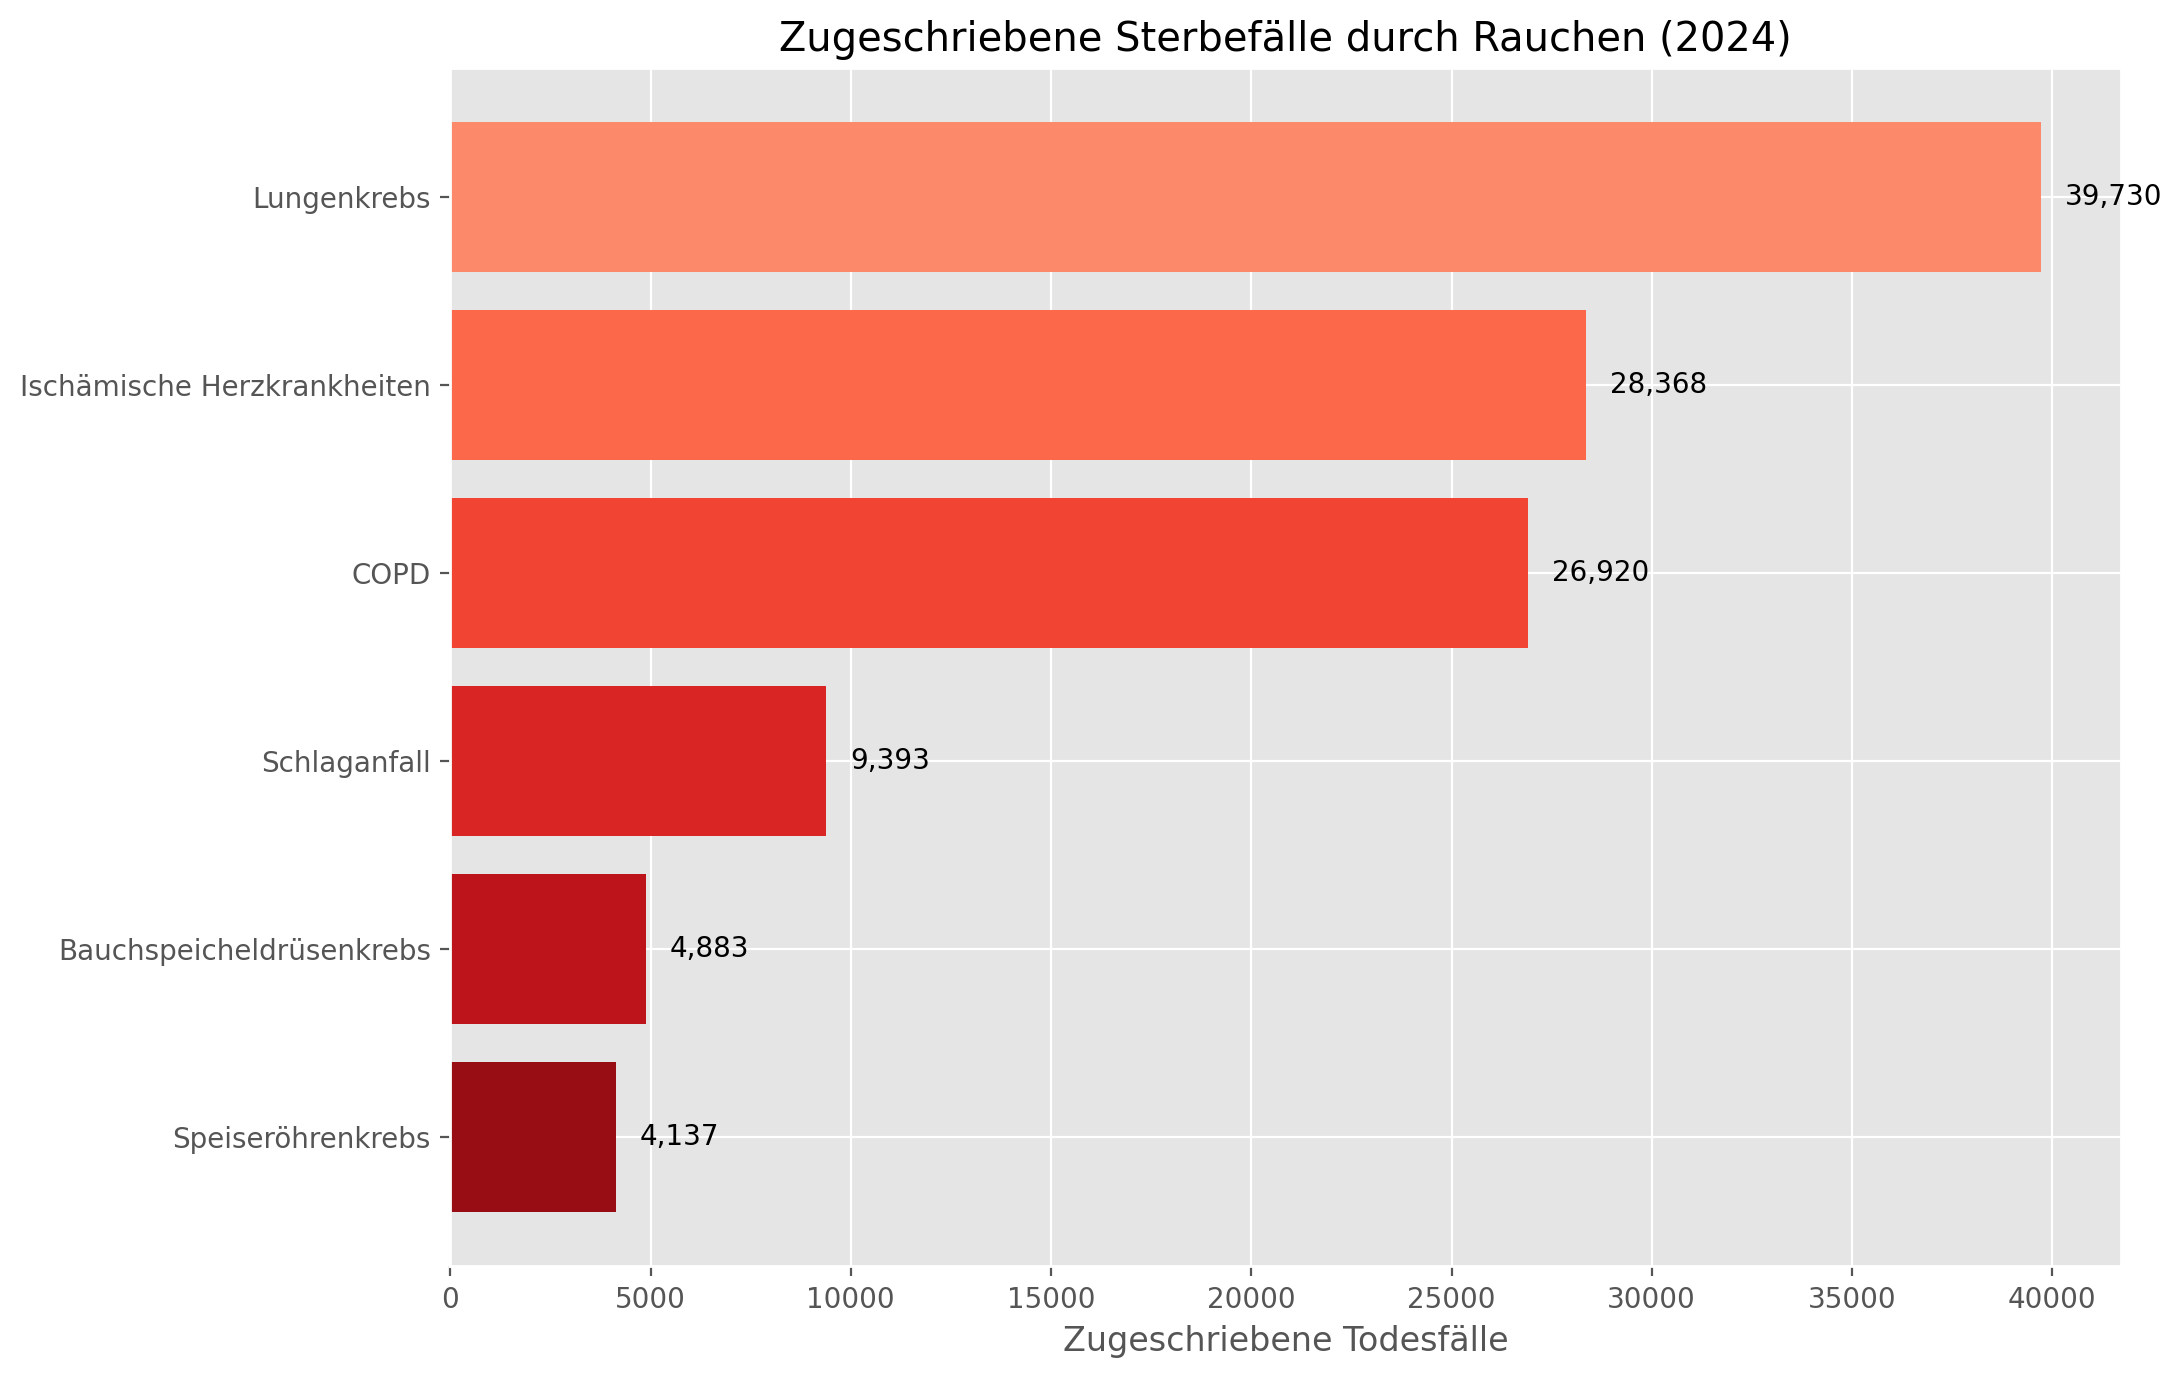
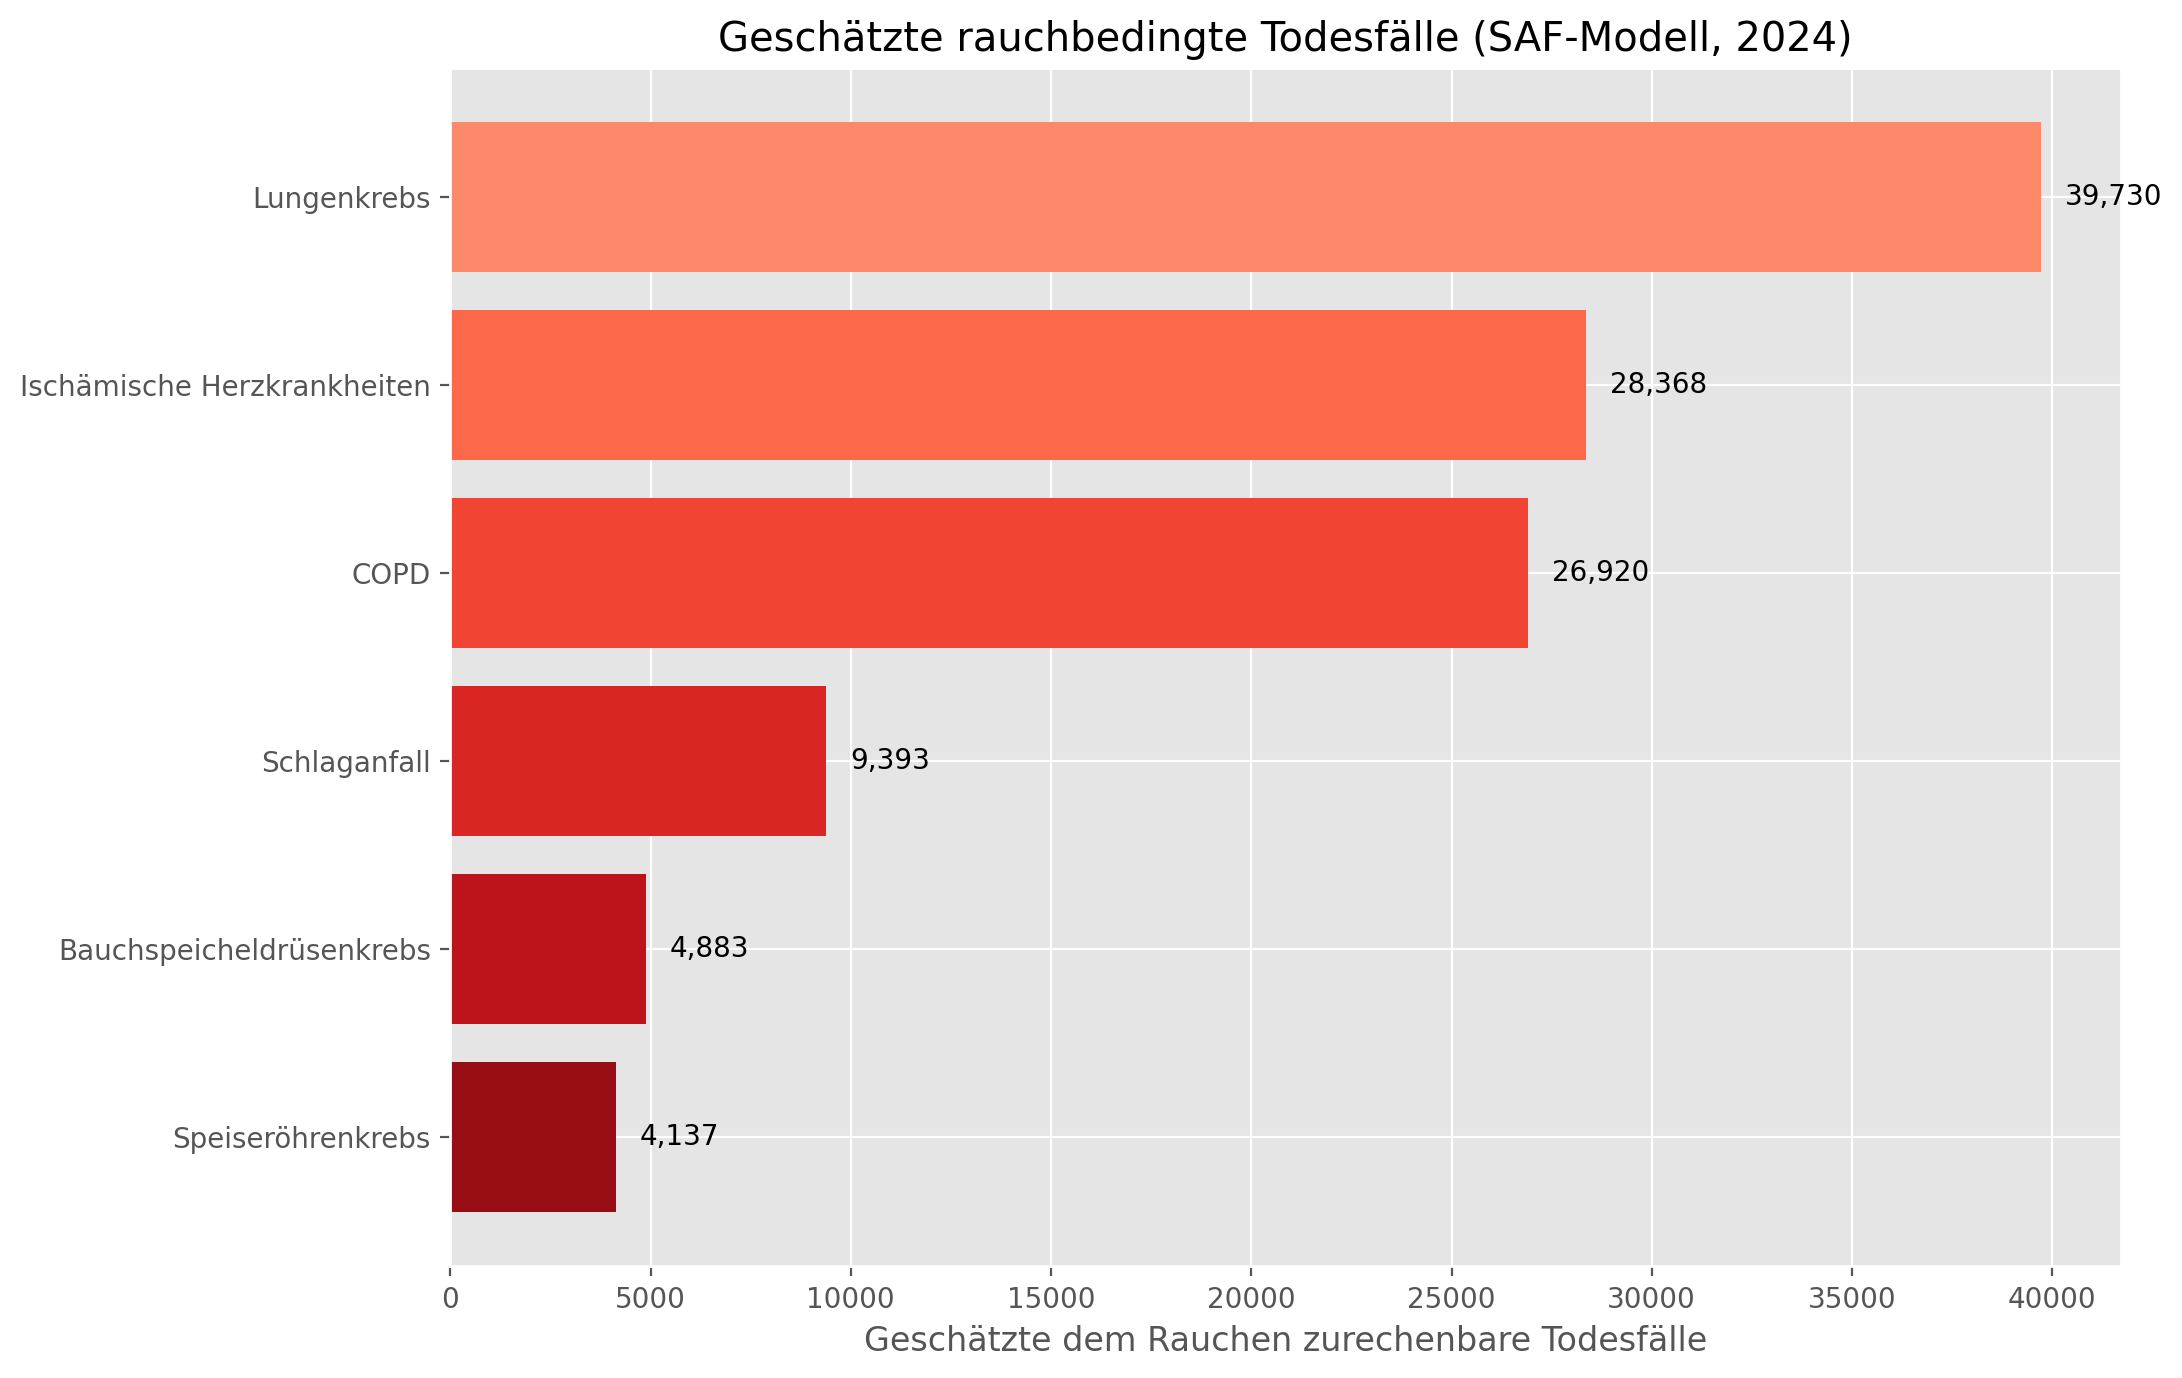
updating

Changed region(s): [[0.3428, 0.0, 0.8414, 0.0624], [0.4051, 0.9673, 0.7791, 0.9985]]

diff --git a/__Sterblichkeit__/sterblichkeit_analyse.py b/__Sterblichkeit__/sterblichkeit_analyse.py
@@ -166,7 +166,7 @@ def geschlechterdiagramm_erstellen():
     achse.bar(x - breite / 2, df_ergebnisse['Todesfälle_Männer'], breite, label='Männer', color='#1760c7')
     achse.bar(x + breite / 2, df_ergebnisse['Todesfälle_Frauen'], breite, label='Frauen', color="#ff67a4")
 
-    achse.set_title('Rauchbedingte Sterbefälle nach Geschlecht')
+    achse.set_title('Todesfälle nach Geschlecht bei ausgewählten Erkrankungen')
     achse.set_xticks(x)
     achse.set_xticklabels(df_ergebnisse['Ursache'], rotation=35, ha='right')
     achse.set_ylabel('Todesfälle')
@@ -364,10 +364,17 @@ def korrelationsmatrix_erstellen():
 # ========================================================
 # Start
 if __name__ == "__main__":
+    balkendiagramm_erstellen()
+    geschlechterdiagramm_erstellen()
+    kreisdiagramm_erstellen()
+    zeitreihenanalyse_erstellen()
+    gesamtanalyse_erstellen()
+    korrelationsmatrix_erstellen()
 
-    print("\n" + "=" * 80)
+
+    print("\n" + "-" * 80)
     print("ANALYSE DER RAUCHBEDINGTEN STERBLICHKEIT")
-    print("=" * 80)
+    print("\n" + "-" * 80)
 
     print("\nKONTROLLE DER DATEN")
     print("-" * 80)
@@ -406,5 +413,3 @@ def erstelle_interpretationsbericht(df_ergebnisse, gesamtsterbefaelle):
     text.append(f"Wichtigste tabakassoziierte Todesursache: {hauptursache}")
 
     return "\n".join(text)
-
-print(erstelle_interpretationsbericht(df_ergebnisse, gesamtsterbefaelle))
